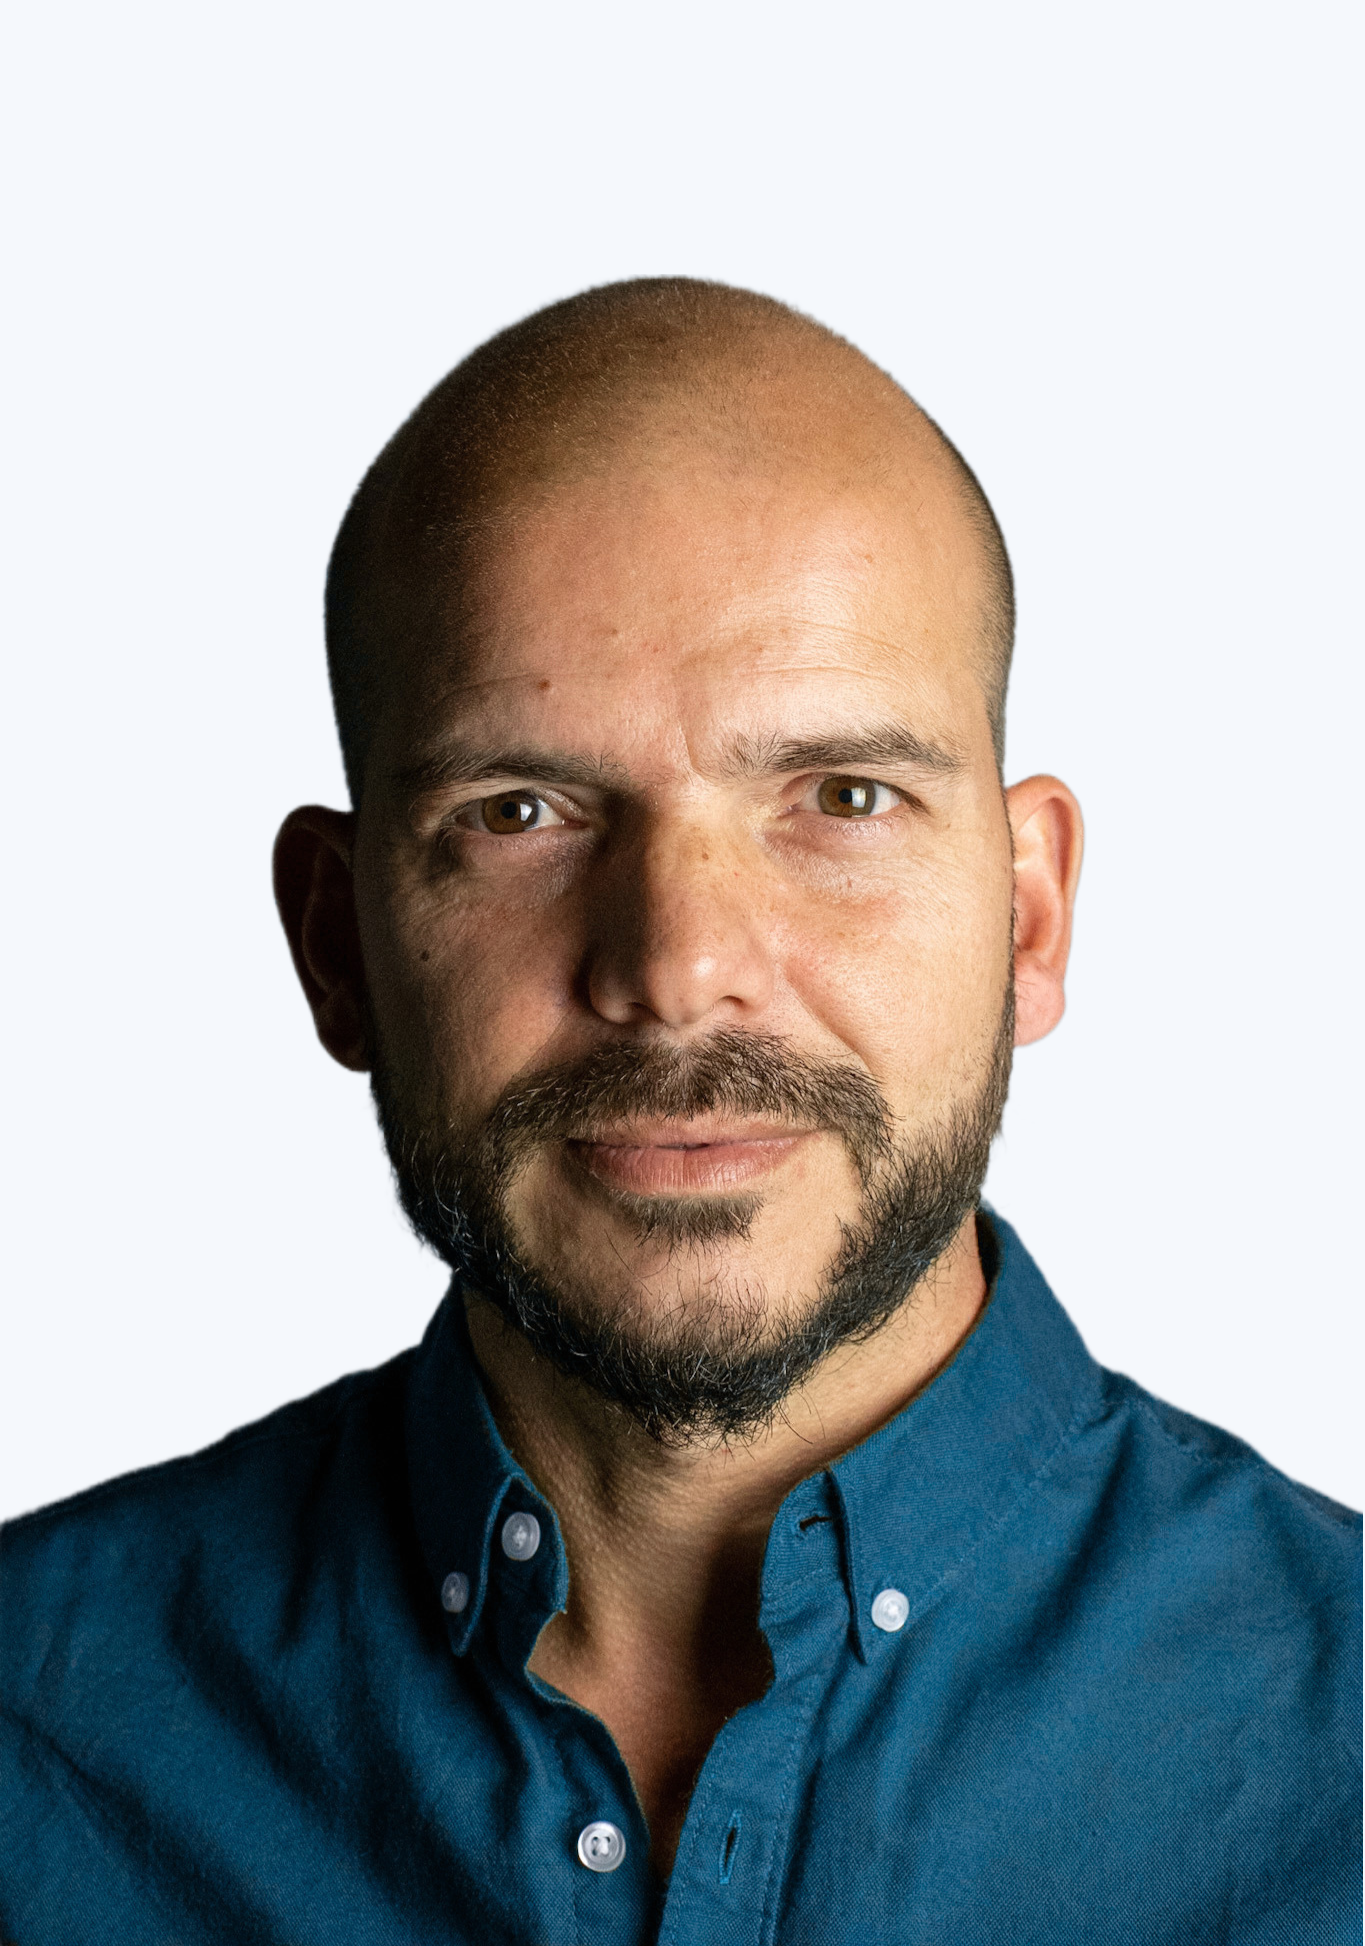
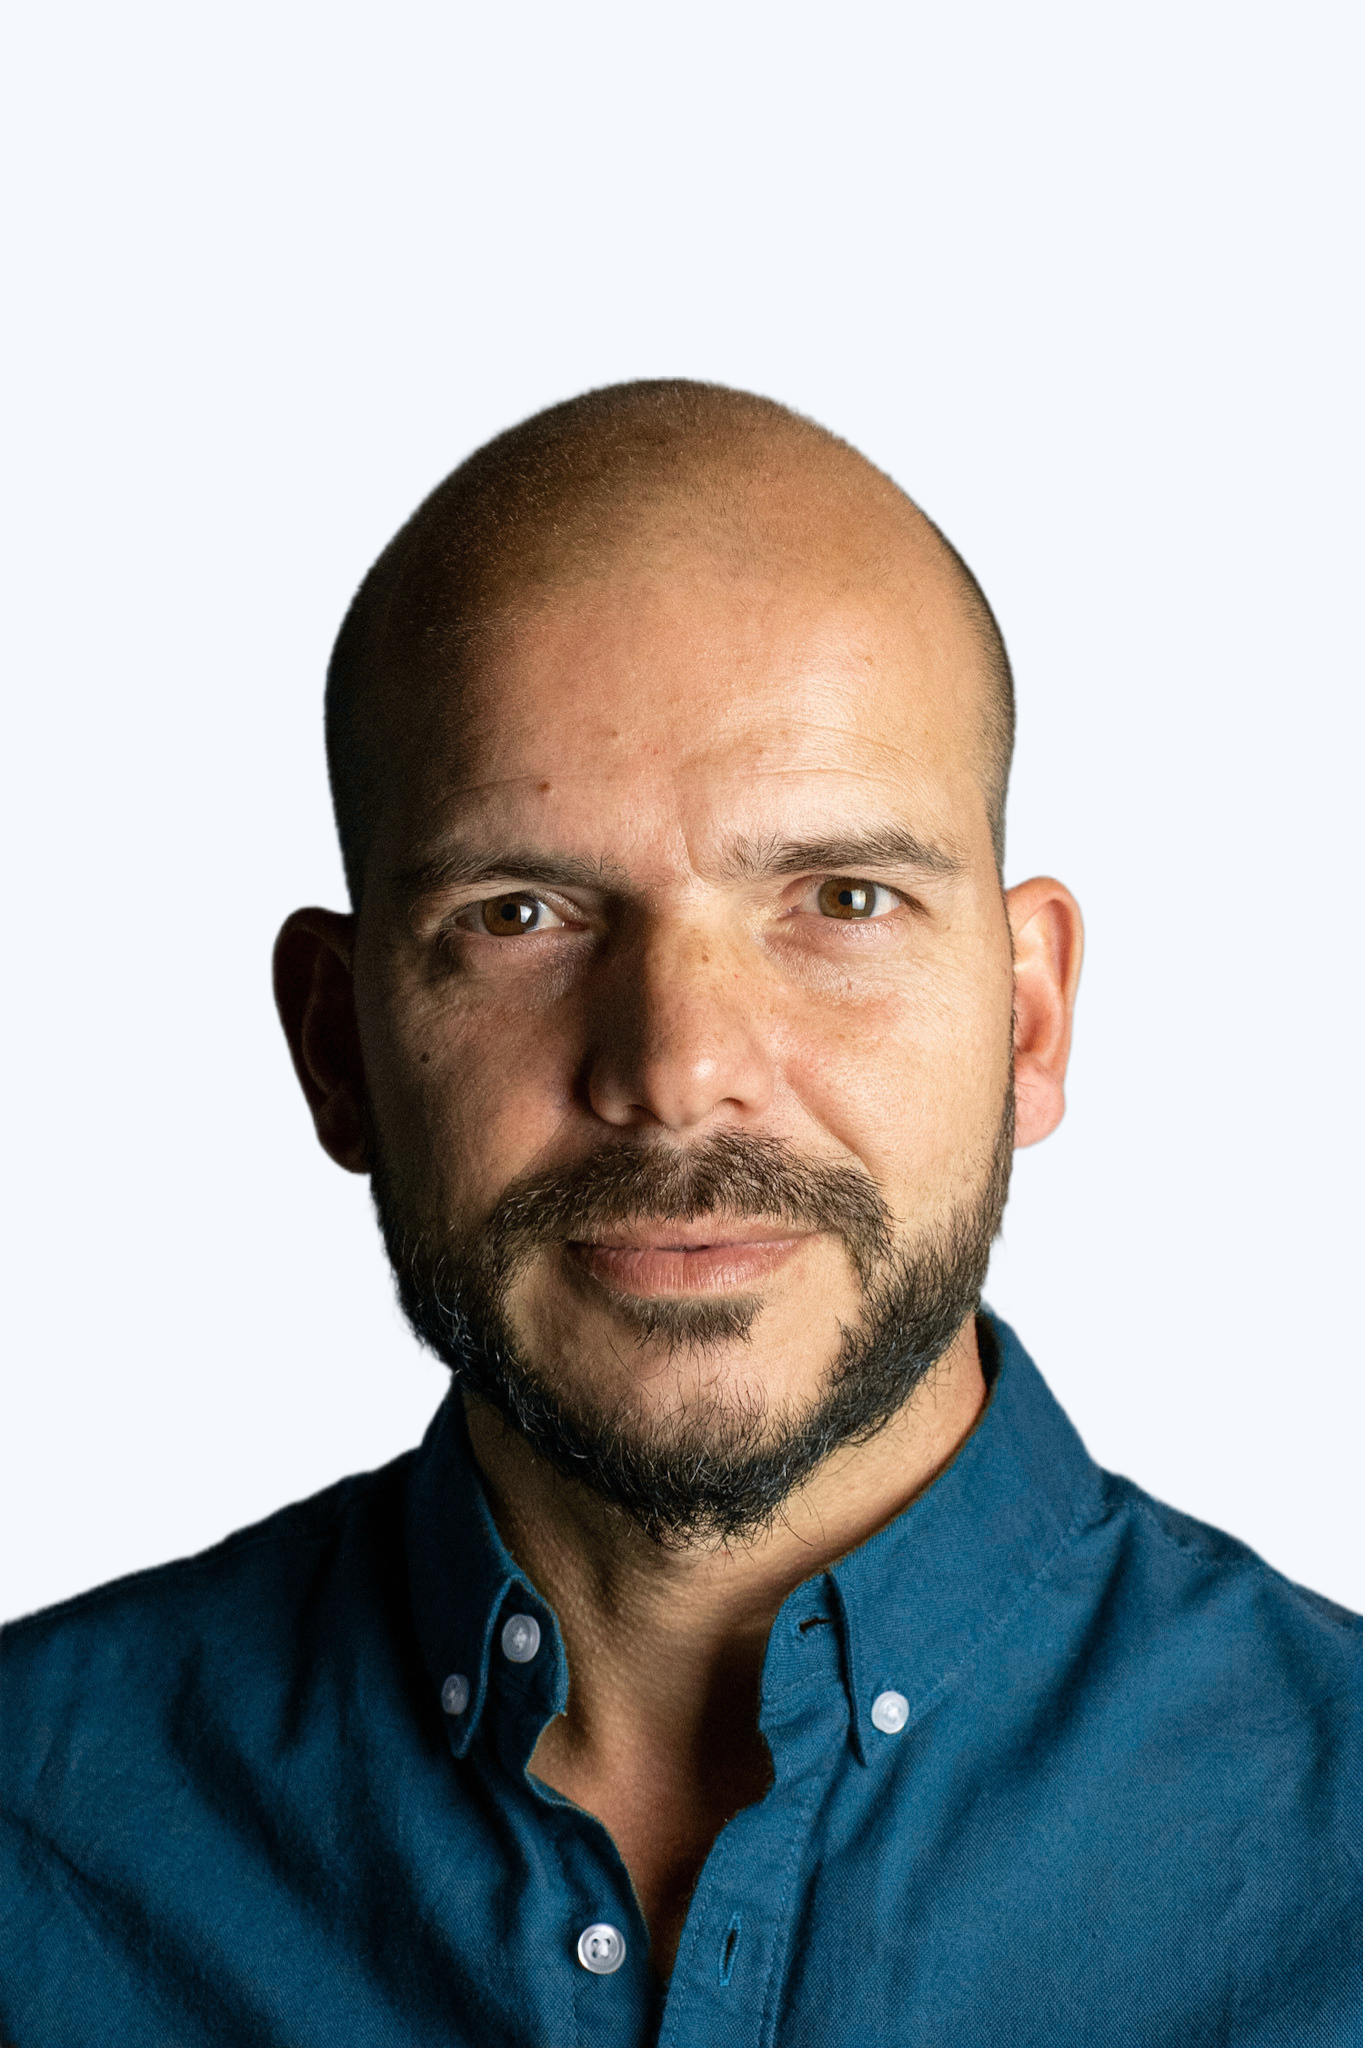
style: full photo circular

Changed region(s): [[0.0, 0.1233, 1.0, 1.0], [0.0308, 0.8941, 0.0615, 0.925]]

diff --git a/index.html b/index.html
@@ -26,7 +26,7 @@ nav{position:fixed;top:0;left:0;right:0;background:rgba(245,248,252,0.95);backdr
 .hero-btns{display:flex;gap:12px;flex-wrap:wrap;}
 .btn-primary{background:#1a3a6b;color:#fff;border:none;border-radius:10px;padding:12px 22px;font-size:13px;font-weight:700;cursor:pointer;font-family:'Plus Jakarta Sans',sans-serif;display:flex;align-items:center;gap:7px;text-decoration:none;}
 .btn-secondary{background:#fff;color:#1a3a6b;border:1.5px solid #c0d4f0;border-radius:10px;padding:12px 22px;font-size:13px;font-weight:600;cursor:pointer;display:flex;align-items:center;gap:7px;text-decoration:none;}
-.hero-avatar{width:160px;height:160px;background:#1a3a6b;border-radius:24px;display:flex;align-items:center;justify-content:center;font-size:48px;font-weight:800;color:#fff;flex-shrink:0;box-shadow:0 8px 32px rgba(26,58,107,0.25);position:relative;}
+.hero-avatar{width:180px;height:180px;background:#1a3a6b;border-radius:24px;display:flex;align-items:center;justify-content:center;font-size:48px;font-weight:800;color:#fff;flex-shrink:0;box-shadow:0 8px 32px rgba(26,58,107,0.25);position:relative;}
 .hero-avatar-badge{position:absolute;bottom:-10px;right:-10px;background:#4a9eff;border-radius:10px;padding:5px 10px;font-size:10px;font-weight:800;color:#fff;border:2px solid #f5f8fc;}
 .skills-strip{background:#fff;border-top:1px solid #d9e4f0;border-bottom:1px solid #d9e4f0;padding:20px 40px;display:flex;align-items:center;justify-content:center;gap:32px;flex-wrap:wrap;}
 .skill-item{display:flex;align-items:center;gap:8px;font-size:12px;font-weight:600;color:#7a9ab8;}
@@ -100,7 +100,7 @@ footer{background:#0d2240;padding:40px;text-align:center;}
       <a href="https://github.com/Frangarvaz/rabida-energy-h2-integration" class="btn-secondary"><i class="ti ti-brand-github" style="font-size:15px"></i>GitHub</a>
     </div>
   </div>
-  <img src="foto.png" style="width:160px;height:160px;border-radius:24px;object-fit:cover;object-position:center 15%;box-shadow:0 8px 32px rgba(26,58,107,0.25),0 0 0 4px #fff,0 0 0 6px #1a3a6b;position:relative;" alt="Francisco García">
+  <img src="foto.png" style="width:180px;height:180px;border-radius:24px;object-fit:cover;object-position:center 15%;box-shadow:0 8px 32px rgba(26,58,107,0.25),0 0 0 4px #fff,0 0 0 6px #1a3a6b;position:relative;" alt="Francisco García">
 </div>
 <div class="skills-strip">
   <div class="skill-item"><i class="ti ti-cloud"></i>SAP BTP</div>